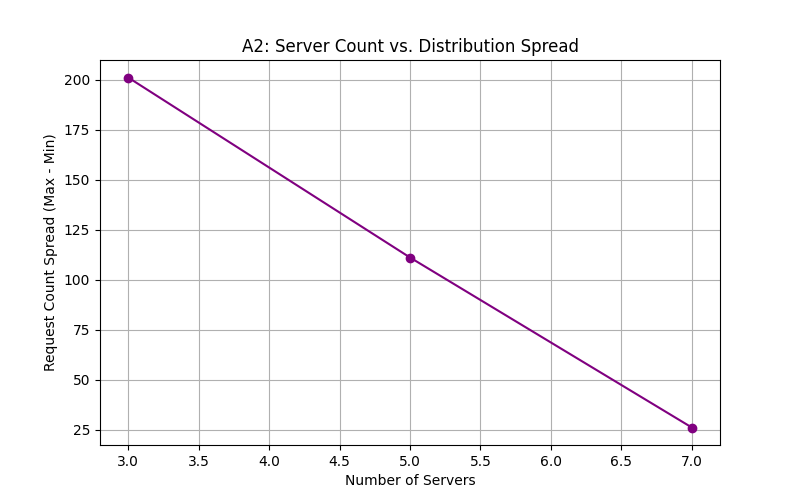
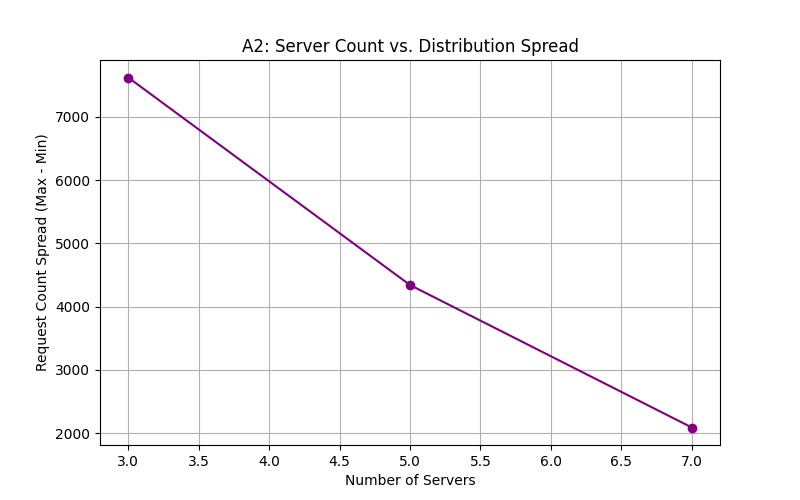
refactor: 10k requests

diff --git a/load_balancer/main.py b/load_balancer/main.py
@@ -10,7 +10,7 @@ from consistent_hash import ConsistentHashRing
 app = FastAPI()
 client = docker.from_env()
 
-IMAGE_NAME = "fastapi-server"
+IMAGE_NAME = "reinhardb/fastapi-server"
 NETWORK_NAME = "net1"
 BASE_PORT = 5000
 
@@ -36,6 +36,23 @@ def random_name(length=5):
     return "srv-" + ''.join(random.choices(string.ascii_lowercase, k=length))
 
 def start_server(server_id: int, name: str):
+    try:
+        # Check if container with this name already exists
+        existing = client.containers.get(name)
+        print(f"[WARN] Container '{name}' already exists (status: {existing.status})")
+
+        if existing.status == "exited":
+            print(f"[INFO] Removing exited container '{name}' before restart...")
+            existing.remove()
+        else:
+            raise HTTPException(
+                status_code=409,
+                detail=f"Container with name '{name}' already exists and is running."
+            )
+    except docker.errors.NotFound:
+        pass  # Container does not exist — proceed
+
+    # Now safe to start
     container = client.containers.run(
         IMAGE_NAME,
         detach=True,
@@ -44,6 +61,7 @@ def start_server(server_id: int, name: str):
         environment={"SERVER_ID": str(server_id)},
     )
     return container
+
 
 def stop_server(name: str):
     try:
@@ -70,7 +88,7 @@ def add_servers(req: AddRequest):
 
     new_servers = []
     for i in range(req.n):
-        name = req.hostnames[i] if i < len(req.hostnames) else random_name()
+        name = (req.hostnames[i] if i < len(req.hostnames) else random_name()).lower()
         server_id = max(ring.ring.values(), default=0) + i + 1
         start_server(server_id, name)
         ring.add_server(server_id)
@@ -88,11 +106,25 @@ def add_servers(req: AddRequest):
 @app.delete("/rm")
 def remove_servers(req: RemoveRequest):
     if len(req.hostnames) > req.n:
-        raise HTTPException(status_code=400, detail="Too many hostnames")
+        raise HTTPException(
+            status_code=400,
+            detail="<Error> Length of hostname list is more than removable instances"
+        )
 
-    to_remove = req.hostnames[:]
+    # Convert hostnames to lowercase
+    to_remove = [h.lower() for h in req.hostnames]
+
+    # Ensure all requested hostnames exist
+    invalid_hosts = [h for h in to_remove if h not in replicas]
+    if invalid_hosts:
+        raise HTTPException(
+            status_code=400,
+            detail=f"<Error> Hostname(s) not found: {', '.join(invalid_hosts)}"
+        )
+
+    remaining = list(set(replicas.keys()) - set(to_remove))
+
     if len(to_remove) < req.n:
-        remaining = list(set(replicas.keys()) - set(to_remove))
         to_remove += random.sample(remaining, req.n - len(to_remove))
 
     for name in to_remove:
@@ -109,6 +141,8 @@ def remove_servers(req: RemoveRequest):
         "status": "successful"
     }
 
+
+
 @app.get("/{path:path}")
 def route_request(path: str, request: Request):
     try:
@@ -121,10 +155,17 @@ def route_request(path: str, request: Request):
             raise HTTPException(status_code=503, detail=f"Server ID {server_id} not found")
 
         name, _ = matched[0]
-        url = f"http://{name.lower()}:{BASE_PORT}/{path}"
+        url = f"http://{name}:{BASE_PORT}/{path}"
+
         try:
             res = requests.get(url, timeout=1)
+            if res.status_code == 404:
+                return {
+                    "message": f"<Error> '/{path}' endpoint does not exist in server replicas",
+                    "status": "failure"
+                }, 400
             return res.json()
+
         except requests.exceptions.RequestException as e:
             print(f"[ERROR] Failed to reach {url}: {e}")
             raise HTTPException(status_code=502, detail="Backend request failed")

diff --git a/load_balancer/consistent_hash.py b/load_balancer/consistent_hash.py
@@ -40,3 +40,10 @@ class ConsistentHashRing:
 
         assigned_slot = self.sorted_slots[idx]
         return self.ring[assigned_slot]
+    
+    def remove_server(self, server_id: int):
+        to_remove = [slot for slot, sid in self.ring.items() if sid == server_id]
+        for slot in to_remove:
+            del self.ring[slot]
+        self.sorted_slots = sorted(self.ring.keys())
+

diff --git a/analysis/analyze_load_balancer.py b/analysis/analyze_load_balancer.py
@@ -4,7 +4,7 @@ from collections import Counter
 import os
 
 BASE_URL = "http://localhost:5000"
-N = 1000  # number of simulated requests
+N = 10000
 PLOT_DIR = "analysis/plots"
 os.makedirs(PLOT_DIR, exist_ok=True)
 
